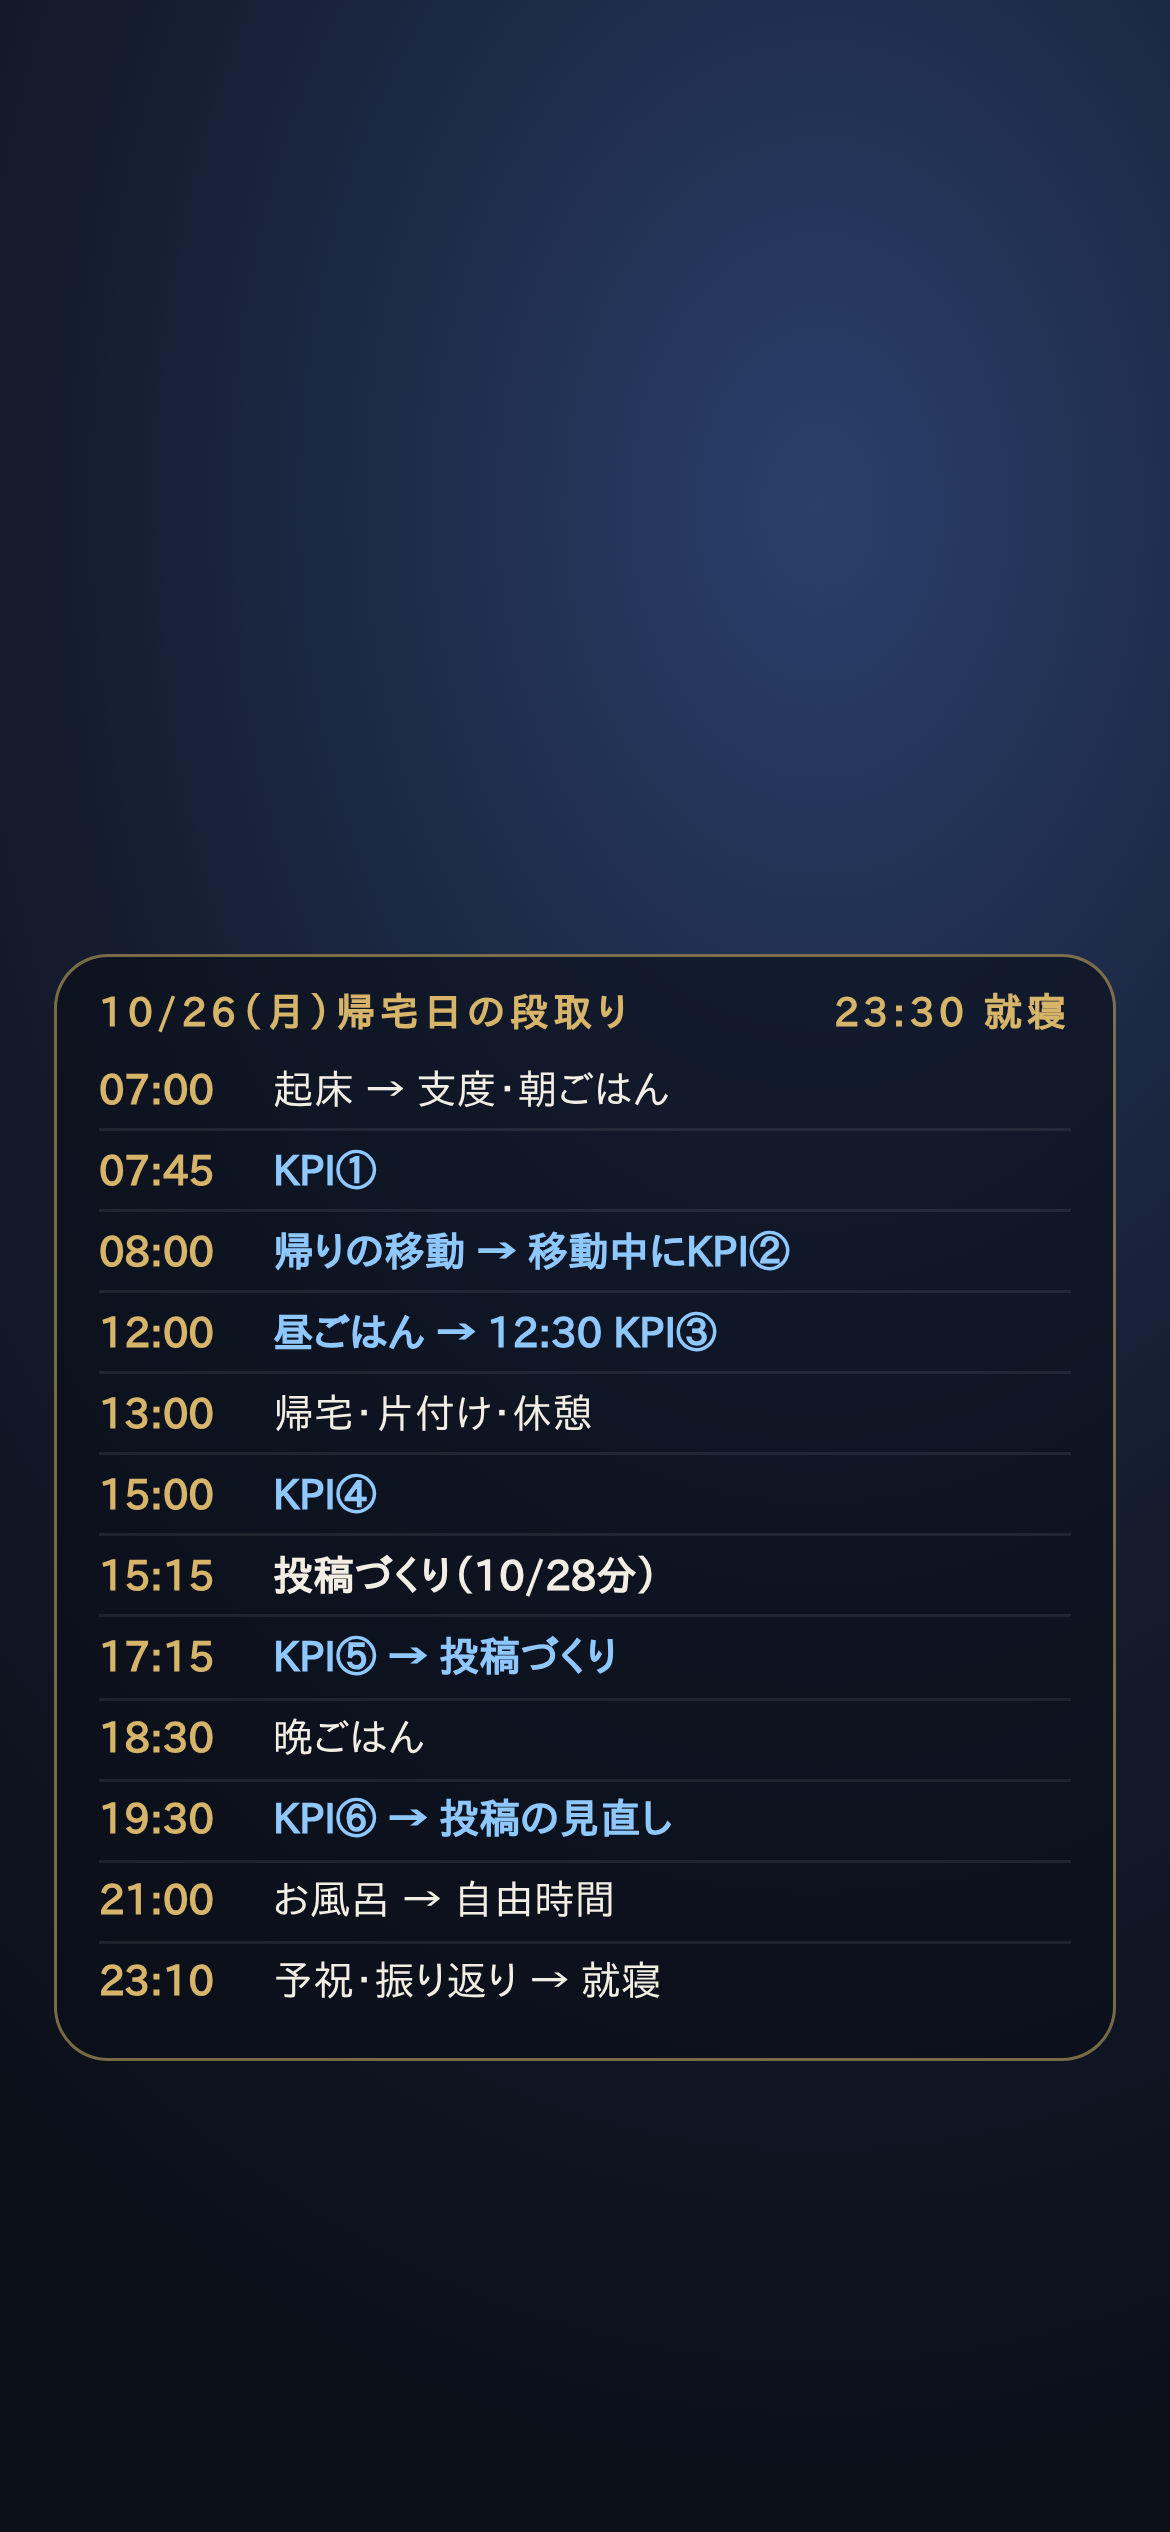
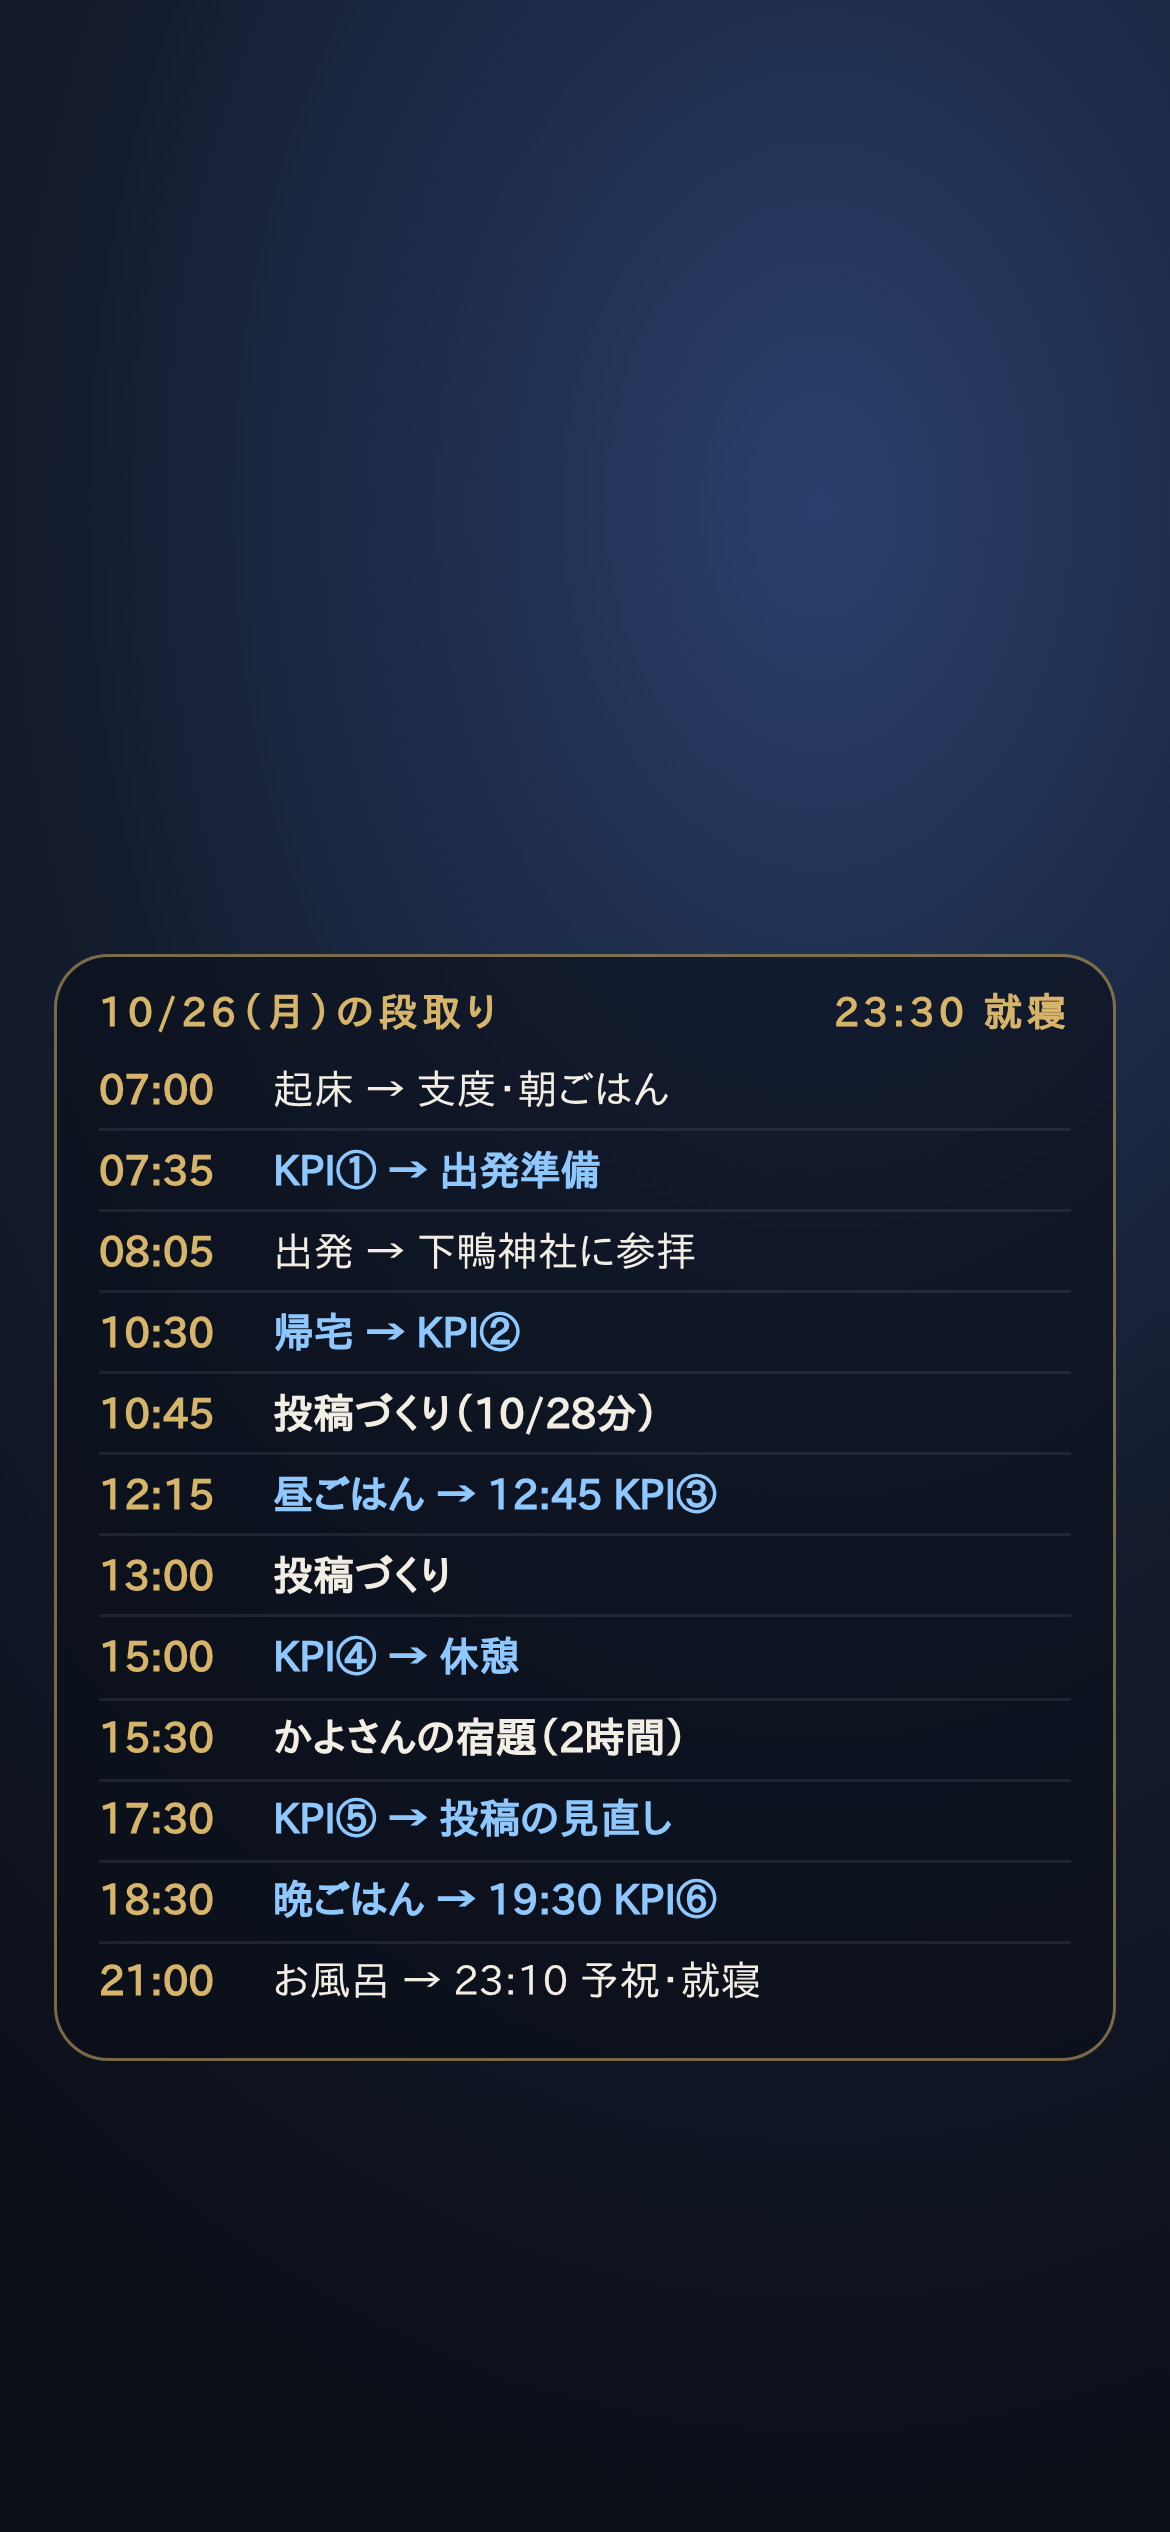
10/26 段取り表を下鴨神社参拝・宿題に合わせて更新、抱えているタスクを記録
Claude-Session: https://claude.ai/code/session_01U8582CXgJcTRPR8mqEQHmZ

diff --git a/secretary/brief/index.html b/secretary/brief/index.html
@@ -65,61 +65,62 @@ ul{list-style:none;margin:0;padding:0;display:flex;flex-direction:column;gap:2px
 <!-- 秘書が毎朝この JSON だけを書き換える -->
 <script id="brief" type="application/json">{
   "date": "2026-10-26",
-  "label": "10/26（月）福岡→帰宅",
+  "label": "10/26（月）休み",
   "wake": "7:00",
-  "updated": "前夜22:00作成",
-  "lead": "帰ったら投稿づくり。明日は提出日で夜にMTGが2つ",
+  "updated": "10/25 夜に更新",
+  "lead": "朝は下鴨神社。昼は投稿づくり、夕方にかよさん宿題",
   "must": [
     {
       "id": "post",
       "label": "投稿（10/28分）を仕上げる",
       "note": "明日の夜はMTGで時間がない",
-      "when": "帰宅後"
+      "when": "10:45〜"
+    },
+    {
+      "id": "kayo",
+      "label": "かよさんの宿題（2時間）",
+      "note": "10/31のMTGまでに",
+      "when": "15:30"
     },
     {
       "id": "kpi",
       "label": "KPI 15フォロー・20リプ（6枠）",
-      "note": "移動のすき間に",
-      "when": "6枠"
-    },
-    {
-      "id": "rest",
-      "label": "旅の疲れをとる",
       "note": "",
-      "when": "夜"
+      "when": "6枠"
     }
   ],
   "timeline": [
     {
       "s": "07:00",
-      "e": "08:00",
+      "e": "08:05",
       "label": "支度・朝ごはん",
-      "task": "→7:45 KPI①"
+      "task": "7:35 KPI①→出発準備"
     },
     {
-      "s": "08:00",
-      "e": "13:00",
-      "label": "帰りの移動",
-      "task": "移動中にKPI②・12時昼→③"
+      "s": "08:05",
+      "e": "10:30",
+      "label": "下鴨神社に参拝",
+      "task": ""
     },
     {
-      "s": "13:00",
+      "s": "10:30",
       "e": "15:00",
-      "label": "片付け・休憩",
-      "task": "→15:00 KPI④"
-    },
-    {
-      "s": "15:15",
-      "e": "18:30",
-      "label": "投稿づくり",
-      "task": "17:15 KPI⑤",
+      "label": "KPI②→投稿づくり",
+      "task": "12:15 昼・12:45 KPI③",
       "kind": "must"
     },
     {
-      "s": "18:30",
-      "e": "21:00",
-      "label": "晩ごはん→KPI⑥",
-      "task": "→投稿の見直し"
+      "s": "15:00",
+      "e": "17:30",
+      "label": "KPI④→かよさん宿題",
+      "task": "",
+      "kind": "must"
+    },
+    {
+      "s": "17:30",
+      "e": "19:45",
+      "label": "KPI⑤→投稿の見直し",
+      "task": "18:30 晩・19:30 KPI⑥"
     },
     {
       "s": "21:00",
@@ -136,16 +137,16 @@ ul{list-style:none;margin:0;padding:0;display:flex;flex-direction:column;gap:2px
       "days": 1
     },
     {
-      "d": "10/27（火）20:00",
-      "label": "堀さんMTG・22時X運用MT",
-      "prep": "",
-      "days": 1
-    },
-    {
       "d": "10/31（土）20:00",
       "label": "かよさんMTG",
-      "prep": "宿題2時間",
+      "prep": "宿題は今日やる",
       "days": 5
+    },
+    {
+      "d": "11/24（火）",
+      "label": "経営スクール宿題",
+      "prep": "11月の週末に",
+      "days": 29
     }
   ],
   "decisions": [

diff --git a/secretary/tasks.md b/secretary/tasks.md
@@ -87,6 +87,13 @@
 | 👤 かよ社長の宿題 | 2時間 | 10/31（土）20:00 MTGかよさん | 10/11は見送り（代表判断）→ 10/20（火）夜1h → 10/21（水）夜1h |
 | 🤖 アウトプット会の解像度を上げる（担当: 戦略責任者） | 代表は確認15分 | — | 戦略責任者が「目的・対象・形式・初回案」の下書きを作成 → 10/22（木）帰りの電車で確認 |
 
+### 2026-10-25 代表から共有（いま抱えているタスク）
+| タスク | 時間 | 期日 | いつやるか |
+|---|---|---|---|
+| 👤 かよさんの宿題 | 2時間 | **10/31（土）** 20:00 MTGかよさん | 10/26（月）15:30〜17:30 |
+| 👤 経営スクールの宿題（次回分） | 未確認 | **11/24** | 11月の週末に配置（内容と所要時間がわかりしだい） |
+| 👤 下鴨神社に参拝 | 1時間（往復込み 8:05〜10:30） | 10/26（月） | 8:05出発・10:30帰宅 |
+
 - [ ] 🤖 **酒井社長の月次報告を添削**（担当: メンター担当）｜ 目標: 9/28 中（難しければ翌日以降。期限未確認）
   - 代表: 報告書（ファイル・スクショ・リンクの中身）を送るだけ → メンター担当が添削・修正案・次月の施策案を作成 → 代表は返却可否を決裁
 - [ ] 👤 **日報スプシの空欄（9/20〜9/25）を埋める** ｜ 約15分 ｜ 9/26（土）帰りの電車の振り返りで
